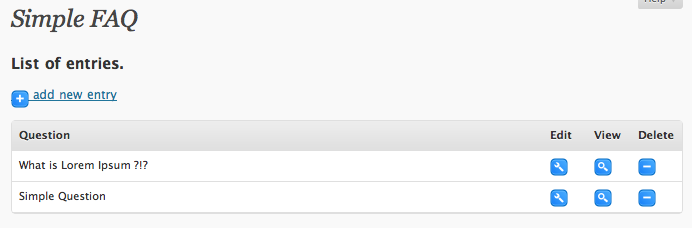
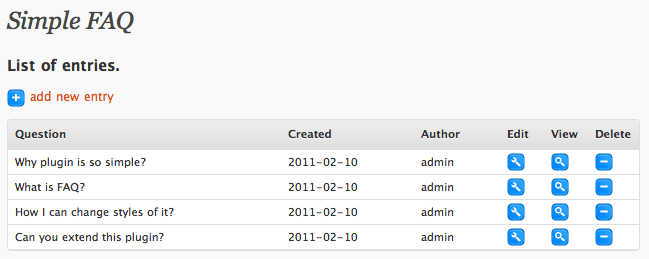
new version 0.5
git-svn-id: https://plugins.svn.wordpress.org/simple-faq/trunk@343501 b8457f37-d9ea-0310-8a92-e5e31aec5664

diff --git a/faq.php b/faq.php
@@ -70,7 +70,7 @@ function DisplayFAQ() {
     global $wpdb;
     $table_name = $wpdb->prefix . "faq";
 
-    $select = "SELECT * FROM " . $table_name ." ORDER BY answer_date DESC";
+    $select = "SELECT * FROM {$table_name} ORDER BY answer_date DESC";
     $all_faq = $wpdb->get_results($select);
 
     $buf = '<ol class="simple-faq">';
@@ -135,7 +135,7 @@ function faq_main() {
       faq_list();
 
    if (!empty($msg)) {
-      echo '<p>' . draw_ico('back to list', 'Backward.png', 'plugins.php?page=faq') . '</p>';
+      echo '<p>' . draw_ico(__('back to list'), 'Backward.png', '') . '</p>';
       _e("Message: ") ;
       echo $msg;
    }
@@ -149,7 +149,7 @@ function faq_delete($id) {
    global $wpdb;
    $table_name = $wpdb->prefix . "faq";
 
-   $results = $wpdb->query("DELETE FROM " . $table_name . " WHERE id='$id'");
+   $results = $wpdb->query("DELETE FROM {$table_name} WHERE id='$id'");
    if ($results) {
       $msg = __("FAQ entry was successfully deleted.");
    }
@@ -160,10 +160,13 @@ function faq_delete($id) {
  * update entry in database
  */
 function faq_update($data) {
-    global $wpdb;
+    global $wpdb, $current_user;
     $table_name = $wpdb->prefix . "faq";
     $wpdb->update($table_name,
-		  array( 'question' => $data['question'], 'answer' => $data['answer']),
+		  array( 'question' => stripslashes_deep($data['question']),
+			'answer' => stripslashes_deep($data['answer']),
+			'answer_date' => date("Y-m-d"),
+			'author_id' => $current_user->ID),
 		  array( 'id' => $data['hid']));
     $msg = __("Question and answer updated");
     return $msg;
@@ -177,8 +180,12 @@ function faq_insert($data) {
 
     $table_name = $wpdb->prefix . "faq";
     $wpdb->insert( $table_name,
-		  array( 'question' => stripslashes_deep($data['question']), 'answer' => stripslashes_deep($data['answer']), 'author_id' => $current_user->ID),
-		  array( '%s', '%s', '%d' ) );
+		  array(
+			'question' => stripslashes_deep($data['question']),
+			'answer' => stripslashes_deep($data['answer']),
+			'answer_date' => date("Y-m-d"),
+			'author_id' => $current_user->ID),
+		  array( '%s', '%s', '%s', '%d' ) );
     $msg = __("Entry added");
     return $msg;
 }
@@ -187,9 +194,7 @@ function faq_insert($data) {
  * draw small ico
  */
 function draw_ico($text, $gfx, $url) {
-   $m = '<a href="' .$_SERVER['REQUEST_URI']. $url . '">';
-   $m .= '<img src="../wp-content/plugins/simple-faq/gfx/' . $gfx .'" width="18" height="18" alt="+" align="middle"/> ' . $text . '</a>';
-   return $m;
+   return '<a href="?page=faq.php'.$url . '" style="text-decoration: none"><img src="../wp-content/plugins/simple-faq/gfx/' . $gfx .'" width="18" height="18" alt="+" style="vertical-align: middle; margin: 0 5px 0 0"/>' . $text . '</a>';
 }
 
 /**
@@ -197,21 +202,21 @@ function draw_ico($text, $gfx, $url) {
  */
 
 function faq_list() {
-   global $wpdb;
+   global $wpdb, $current_user;
    $table_name = $wpdb->prefix . "faq";
 
    echo '<h3>List of entries.</h3>';
-   echo '<p>';
-   echo draw_ico('add new entry', 'add.png', '&amp;act=new');
-   echo '</a></p>';
+   echo '<p>' . draw_ico(__('add new entry'), 'add.png', '&amp;act=new') . '</p>';
 
 
-   $select = "SELECT id, question, answer FROM " . $table_name ." ORDER BY answer_date DESC";
+   $select = "SELECT id, question, answer, author_id, answer_date FROM {$table_name} ORDER BY answer_date DESC";
    $all_faq = $wpdb->get_results($select);
 
    ?><table class="widefat">
    <thead>
       <th scope="col"><? _e("Question") ?></th>
+      <th scope="col"><? _e("Created") ?></th>
+      <th scope="col"><? _e("Author") ?></th>
       <th scope="col" width="30"><? _e("Edit") ?></th>
       <th scope="col" width="30"><? _e("View"); ?></th>
       <th scope="col" width="30"><? _e("Delete");?></th>
@@ -219,10 +224,16 @@ function faq_list() {
    <tbody>
    <?
 
+
     $buf = '<tr>';
     foreach ($all_faq as $q) {
+      if ($q->author_id == 0) $q->author_id = $current_user->ID;
+	 $user_info = get_userdata($q->author_id);
+
 	echo '<tr>';
 	echo '<td>' . $q->question . '</td>';
+	echo '<td>' . $q->answer_date . '</td>';
+	echo '<td>' . $user_info->user_login . '</td>';
 	echo '<td>' . draw_ico('', 'tool.png', '&amp;id=' . $q->id . '&amp;act=edit') . '</td>';
 	echo '<td>' . draw_ico('', 'zoom.png', '&amp;id=' . $q->id . '&amp;act=view') . '</td>';
 	echo '<td>' . draw_ico('', 'del.png', '&amp;id=' . $q->id . '&amp;act=delete') . '</td>';
@@ -237,7 +248,7 @@ function faq_view($id) {
    global $wpdb;
    $table_name = $wpdb->prefix . "faq";
 
-   $row = $wpdb->get_row("SELECT * FROM ".$table_name." WHERE id = '$id'");
+   $row = $wpdb->get_row("SELECT * FROM {$table_name} WHERE id = '$id'");
    echo '<p>';
    _e("Question:");
    echo '<br/>';
@@ -246,7 +257,7 @@ function faq_view($id) {
    _e("Answer:");
    echo '<br/>';
    echo $row->answer;
-   echo '<p>' . draw_ico('back to list', 'Backward.png', 'plugins.php?page=faq') . '</p>';
+   echo '<p>' . draw_ico(e_('back to list'), 'Backward.png', 'plugins.php?page=faq') . '</p>';
 }
 
 /**
@@ -257,7 +268,17 @@ function faq_form($act, $id = null) {
     global $wpdb;
     $table_name = $wpdb->prefix . "faq";
 
-    $row = $wpdb->get_row("SELECT * FROM ".$table_name." WHERE id = '$id'");
+
+
+    if ($act == 'insert') {
+      $row->question = '';
+      $row->answer = '';
+      $id = null;
+    } else {
+        $row = $wpdb->get_row("SELECT * FROM {$table_name} WHERE id = '$id'");
+    }
+
+
 
     ?>
     <form name="form1" method="post" action="<?php echo str_replace( '%7E', '~', $_SERVER['REQUEST_URI']); ?>">
@@ -265,7 +286,7 @@ function faq_form($act, $id = null) {
     <input type="hidden" name="act" value="<?= $act ?>"/>
 
     <p><?php _e("Question:", 'mt_trans_domain' ); ?><br/>
-    <input type="text" name="question" value="<?= $row->question; ?>" size="20" class="regular-text">
+    <input type="text" name="question" value="<?= $row->question; ?>" size="20" class="large-text"/>
     <p><?php _e("Answer:", 'mt_trans_domain' ); ?><br/>
     <textarea name="answer" rows="10" cols="30" class="large-text"><?= $row->answer; ?></textarea>
     </p><hr />
